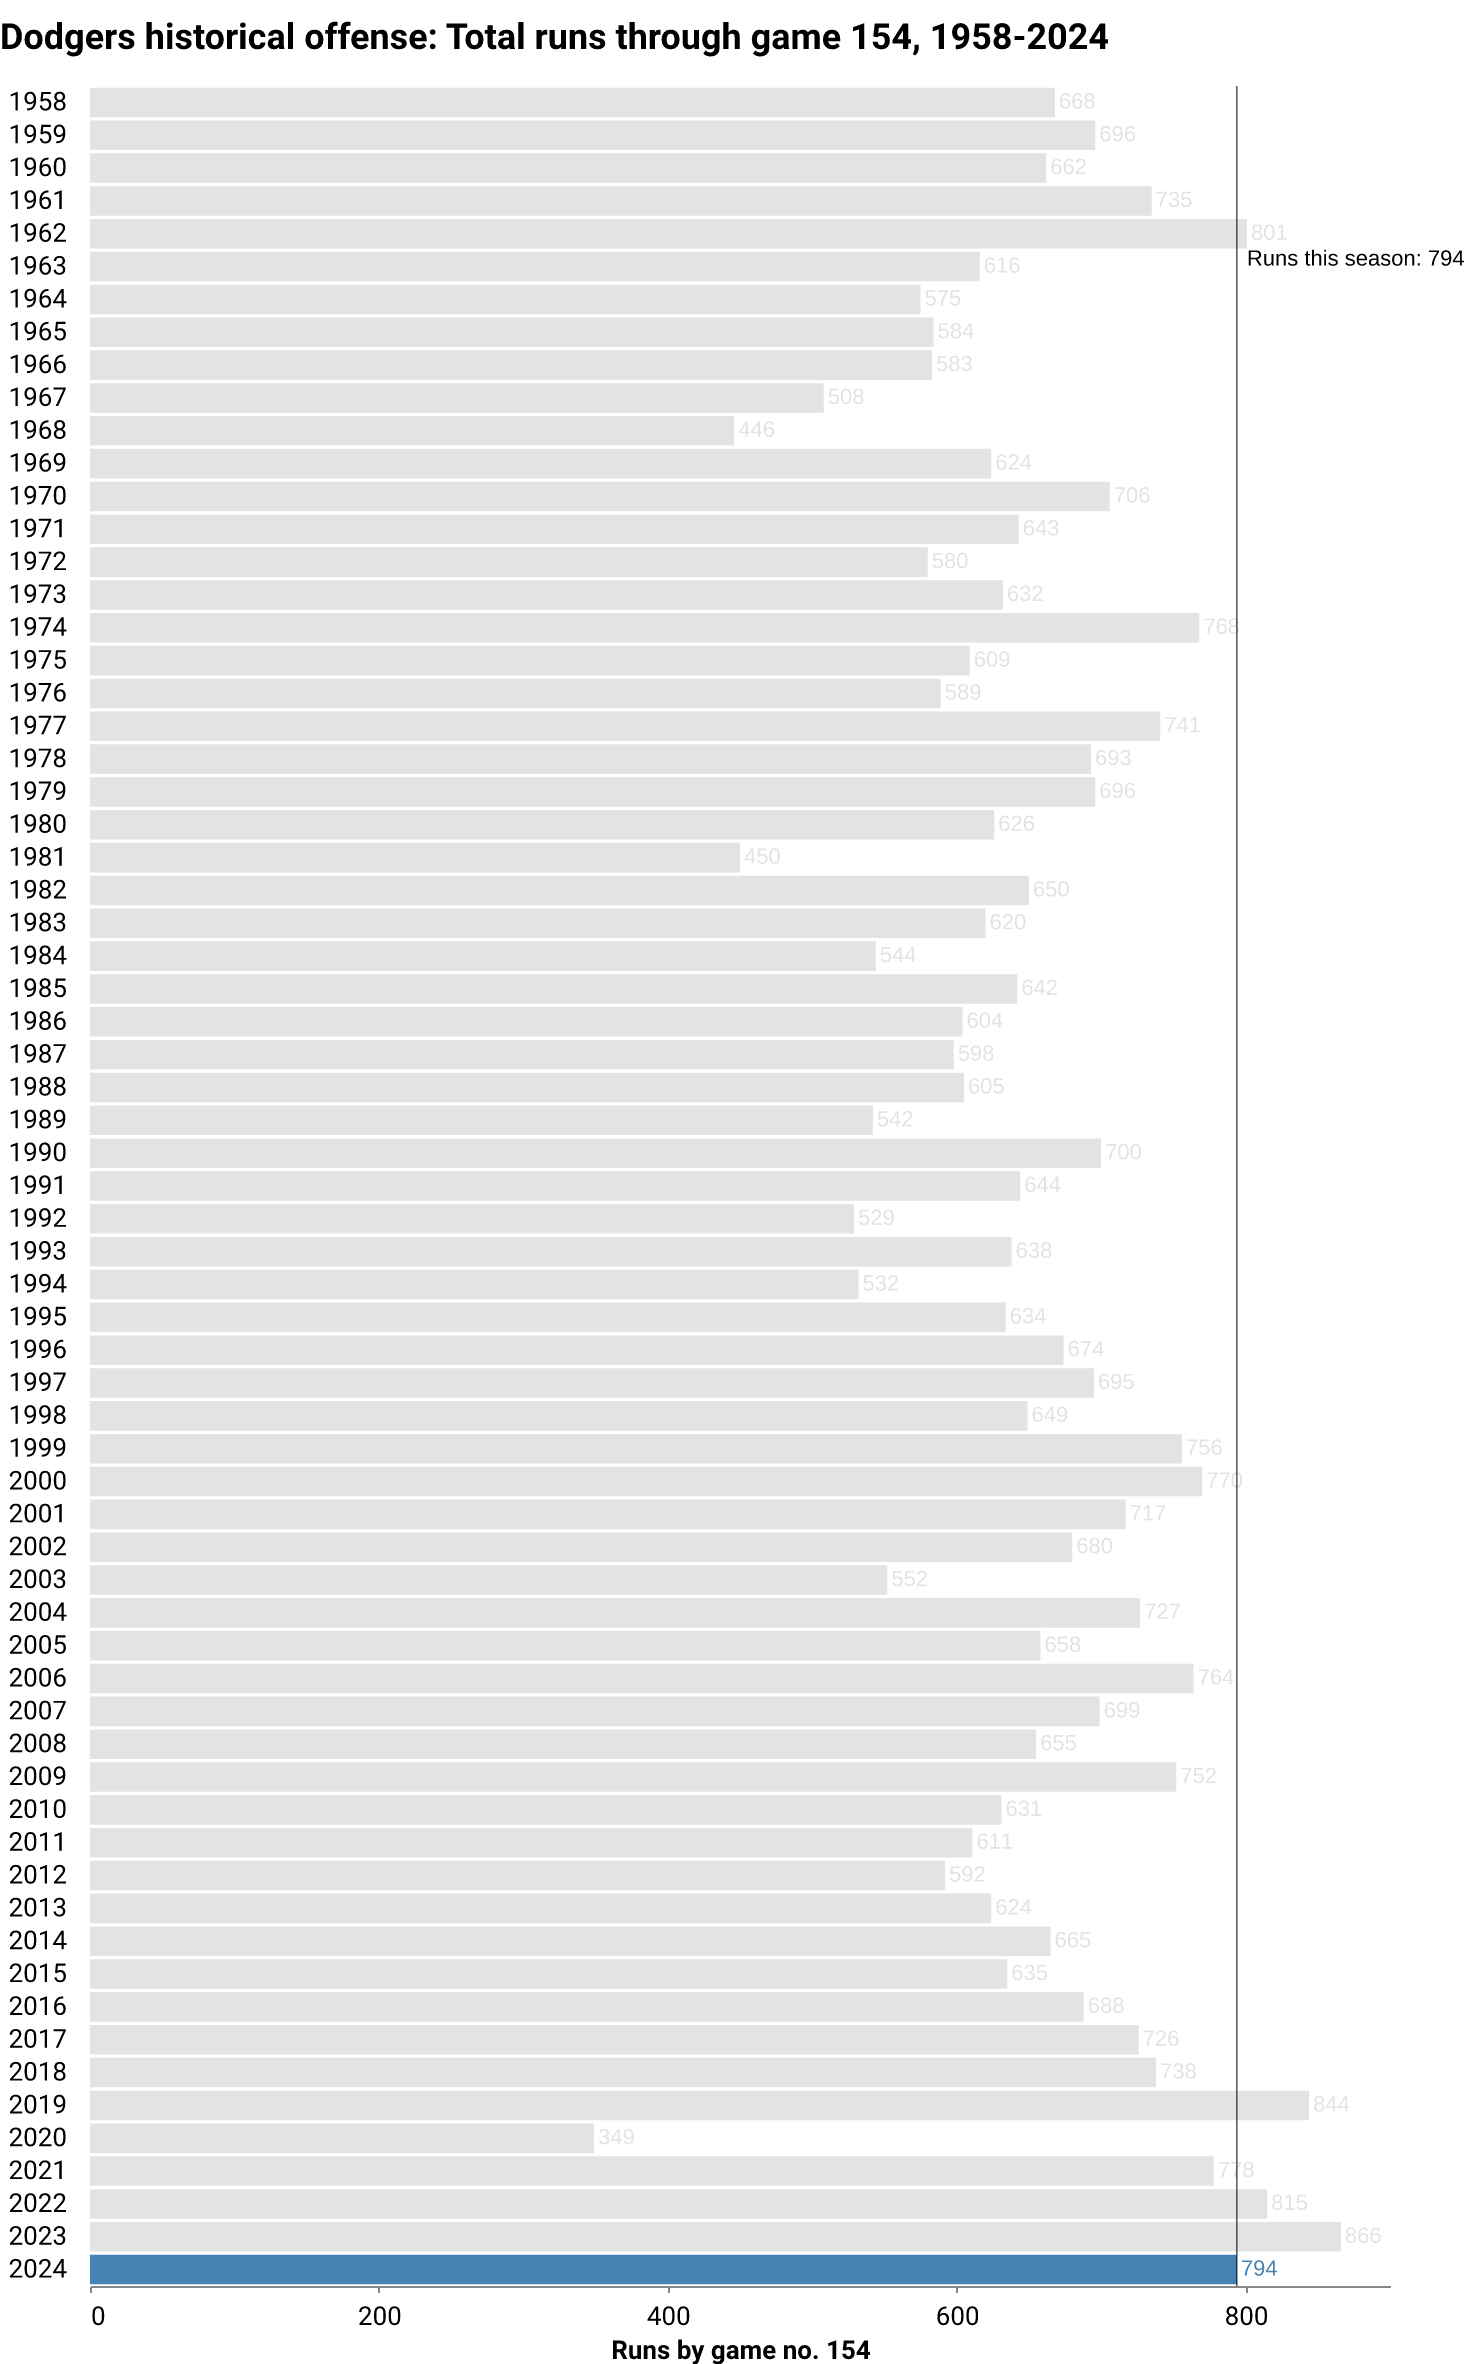
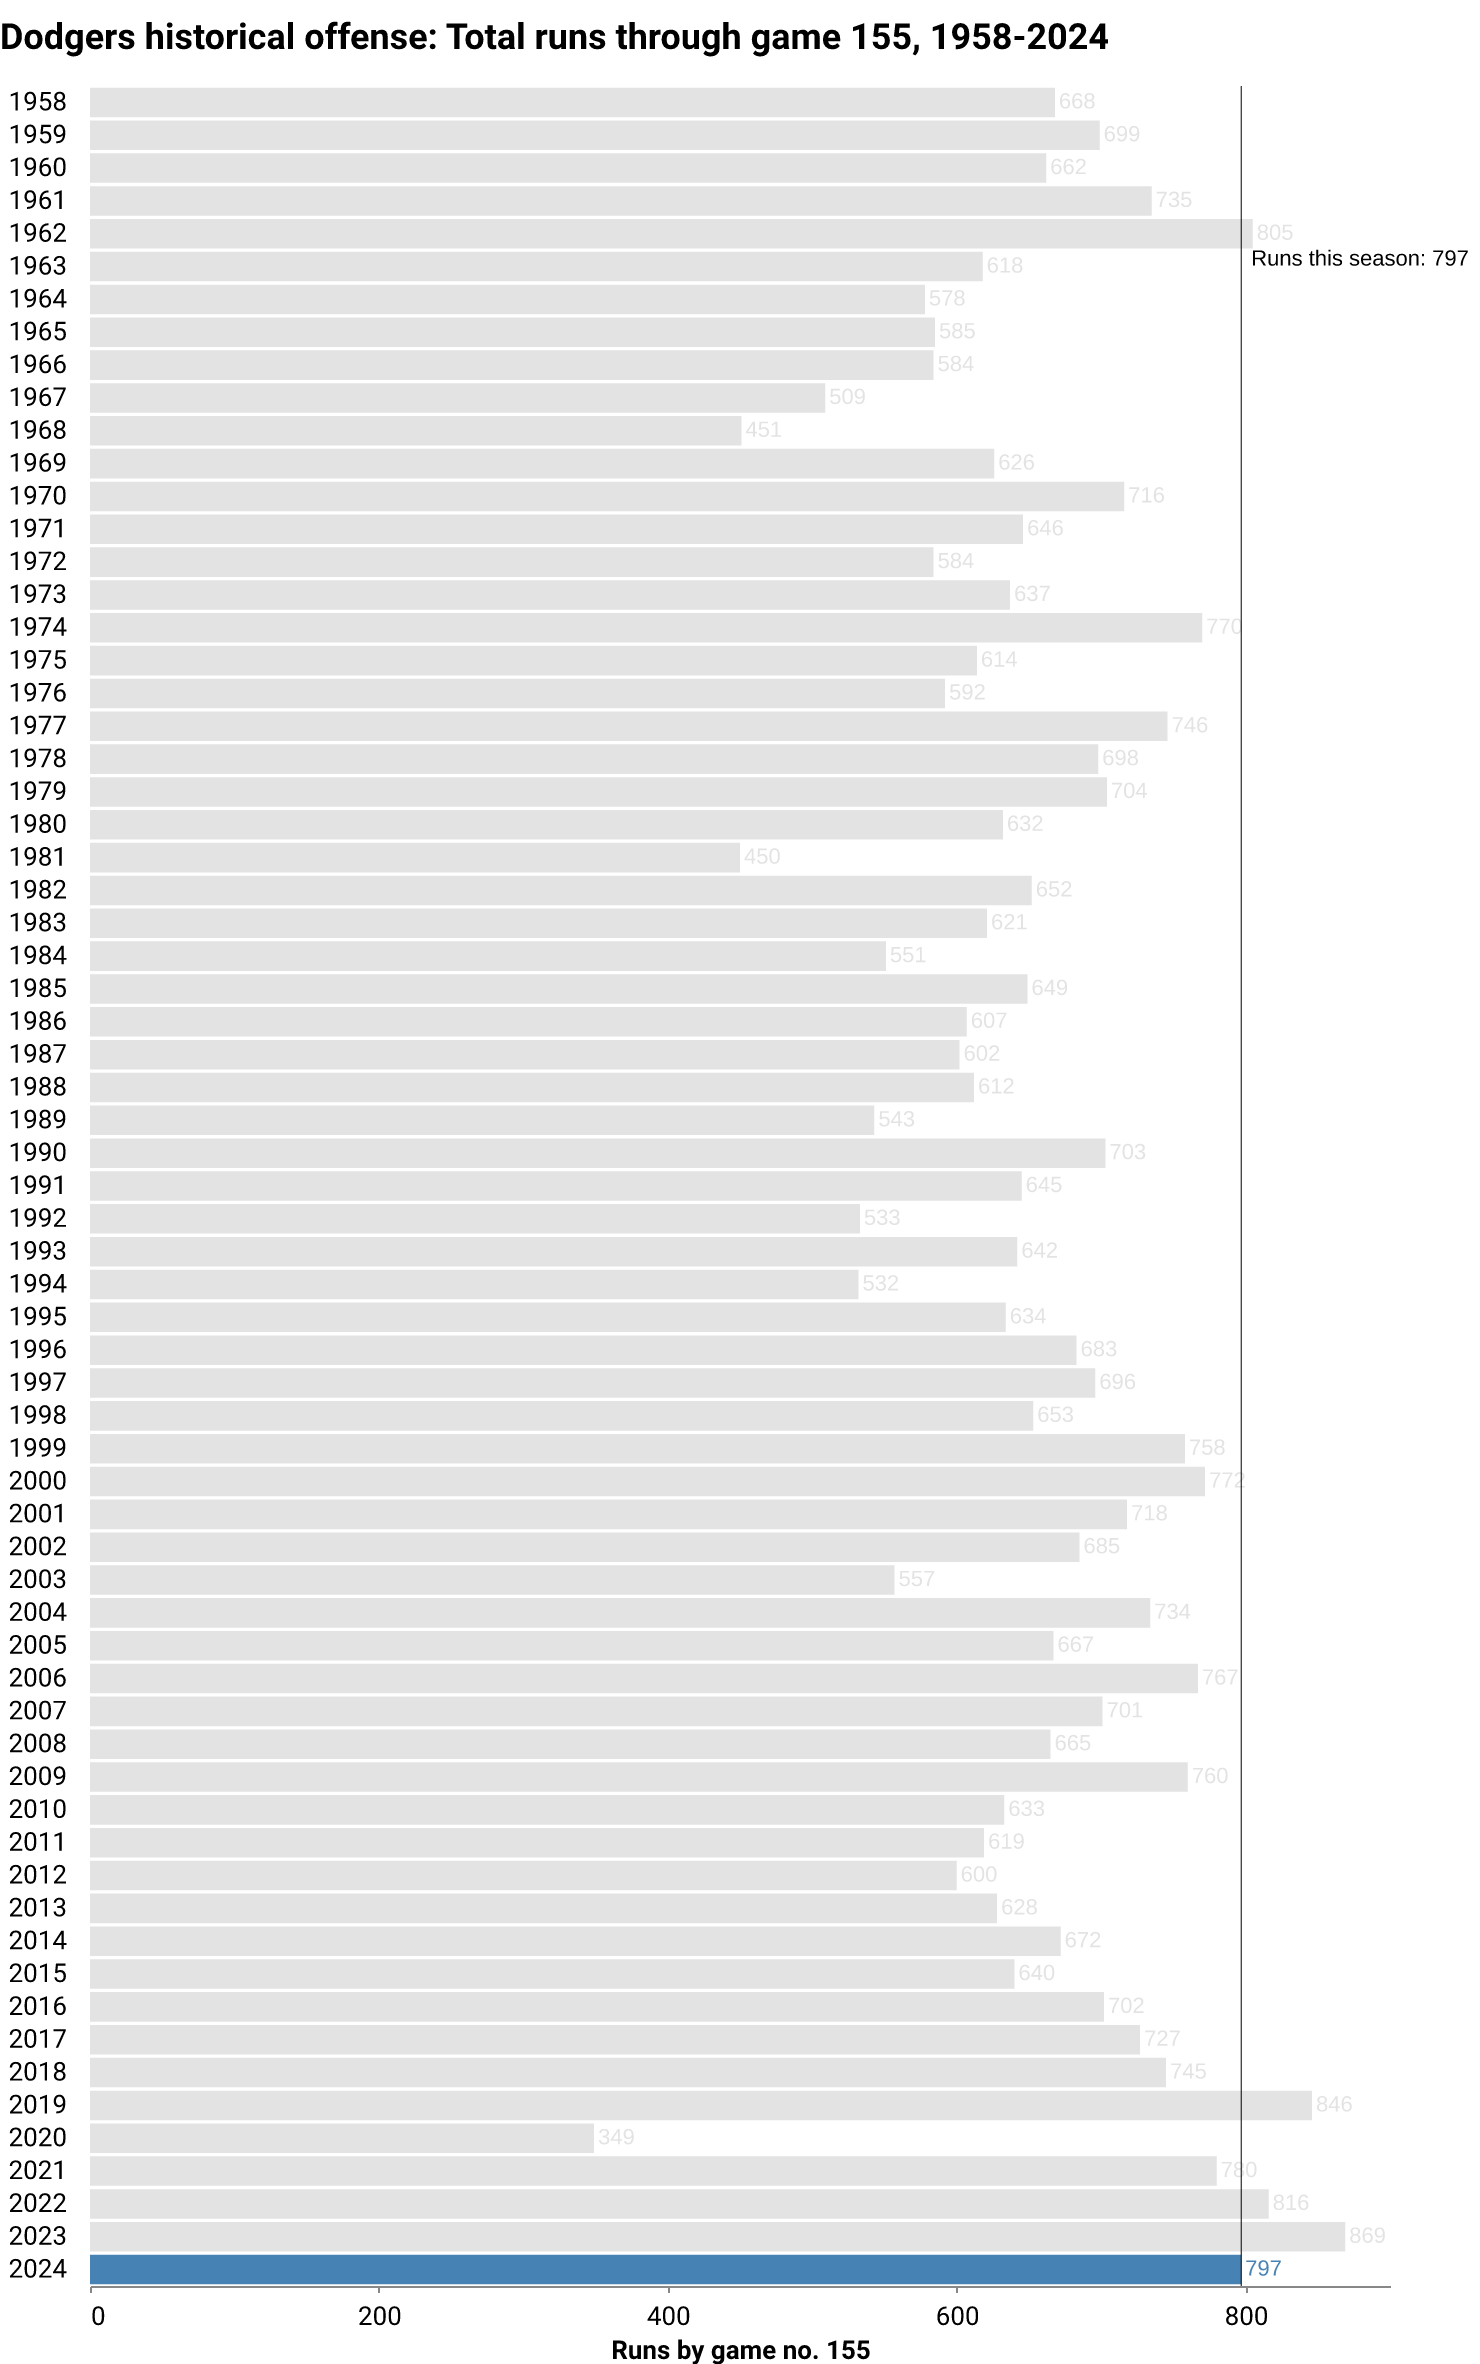
deploy: 06500cff35aeaca29bca53e55c2ca973a0f34bcf

diff --git a/index.html b/index.html
@@ -177,14 +177,14 @@
     
     
     
-        <i class="fa-solid fa-arrow-trend-up" style="color: #005a9c;"></i>
+        <i class="fa-solid fa-arrow-trend-down" style="color: #ef3e42;"></i>
     
 </div>
 <h1 class="headline">How are the Dodgers doing?</h1>
 <p class="subhead">
     
     
-    <span class="highlight">LOS ANGELES</span> <span class="updated">(September 21)</span> — After <span class="highlight">154</span> games this season, the Dodgers are in <span class="highlight">1st</span> place in the National League West division. The team has compiled a <span class="highlight">92-62</span> record, winning <span class="highlight">60%</span> of its games so far. The last game was a <span class="highlight">6-4</span> home <span class="highlight">win</span> against the Colorado Rockies in front of <span class="highlight">49,073</span> fans. They've won <span class="highlight">6 of the last 10</span>.
+    <span class="highlight">LOS ANGELES</span> <span class="updated">(September 22)</span> — After <span class="highlight">155</span> games this season, the Dodgers are in <span class="highlight">1st</span> place in the National League West division. The team has compiled a <span class="highlight">92-63</span> record, winning <span class="highlight">59%</span> of its games so far. The last game was a <span class="highlight">3-6</span> home <span class="highlight">loss</span> against the Colorado Rockies in front of <span class="highlight">52,267</span> fans. They've won <span class="highlight">6 of the last 10</span>.
 </p>
 </div>
 
@@ -209,7 +209,7 @@
             <p class="card-text">92</p>
           </div>
           <div class="card-footer text-muted">
-        This point last season: 95
+        This point last season: 96
           </div>
         </div>
       </div>
@@ -222,7 +222,7 @@
             Losses
           </div>
           <div class="card-body">
-            <p class="card-text">62</p>
+            <p class="card-text">63</p>
           </div>
           <div class="card-footer text-muted">
         This point last season: 59
@@ -238,10 +238,10 @@
             Record
           </div>
           <div class="card-body">
-            <p class="card-text">92-62</p>
+            <p class="card-text">92-63</p>
           </div>
           <div class="card-footer text-muted">
-        This point last season: 95-59
+        This point last season: 96-59
           </div>
         </div>
       </div>
@@ -254,7 +254,7 @@
             Win percentage
           </div>
           <div class="card-body">
-            <p class="card-text">60%</p>
+            <p class="card-text">59%</p>
           </div>
           <div class="card-footer text-muted">
         This point last season: 62%
@@ -270,7 +270,7 @@
             Games up/back
           </div>
           <div class="card-body">
-            <p class="card-text">4.0</p>
+            <p class="card-text">3.0</p>
           </div>
           <div class="card-footer text-muted">
         Division rank: 1
@@ -286,10 +286,10 @@
             Avg. home attendance
           </div>
           <div class="card-body">
-            <p class="card-text">48,462</p>
+            <p class="card-text">48,512</p>
           </div>
           <div class="card-footer text-muted">
-        Home games this season: 76
+        Home games this season: 77
           </div>
         </div>
       </div>
@@ -302,7 +302,7 @@
             Runs
           </div>
           <div class="card-body">
-            <p class="card-text">794</p>
+            <p class="card-text">797</p>
           </div>
           <div class="card-footer text-muted">
         League rank: 2
@@ -318,10 +318,10 @@
             Runs against
           </div>
           <div class="card-body">
-            <p class="card-text">659</p>
+            <p class="card-text">665</p>
           </div>
           <div class="card-footer text-muted">
-        This point last season: 669
+        This point last season: 671
           </div>
         </div>
       </div>
@@ -334,10 +334,10 @@
             Run differential
           </div>
           <div class="card-body">
-            <p class="card-text">135</p>
+            <p class="card-text">132</p>
           </div>
           <div class="card-footer text-muted">
-        This point last season: 197
+        This point last season: 198
           </div>
         </div>
       </div>
@@ -424,7 +424,7 @@
             Home runs
           </div>
           <div class="card-body">
-            <p class="card-text">220</p>
+            <p class="card-text">221</p>
           </div>
           <div class="card-footer text-muted">
         League rank: 1
@@ -456,7 +456,7 @@
             On-base percentage
           </div>
           <div class="card-body">
-            <p class="card-text">.331</p>
+            <p class="card-text">.332</p>
           </div>
           <div class="card-footer text-muted">
         Last decade average: .332
@@ -472,7 +472,7 @@
             Stolen bases
           </div>
           <div class="card-body">
-            <p class="card-text">123</p>
+            <p class="card-text">125</p>
           </div>
           <div class="card-footer text-muted">
         League rank: 6
@@ -488,7 +488,7 @@
             Stolen bases/game
           </div>
           <div class="card-body">
-            <p class="card-text">0.8</p>
+            <p class="card-text">0.81</p>
           </div>
           <div class="card-footer text-muted">
         Rate all last season: 0.65
@@ -605,7 +605,7 @@
             Strikeouts
           </div>
           <div class="card-body">
-            <p class="card-text">1306</p>
+            <p class="card-text">1320</p>
           </div>
           <div class="card-footer text-muted">
         League rank: 7
@@ -621,7 +621,7 @@
             Walks
           </div>
           <div class="card-body">
-            <p class="card-text">476</p>
+            <p class="card-text">478</p>
           </div>
           <div class="card-footer text-muted">
         League rank: 10
@@ -637,7 +637,7 @@
             ERA
           </div>
           <div class="card-body">
-            <p class="card-text">3.93</p>
+            <p class="card-text">3.94</p>
           </div>
           <div class="card-footer text-muted">
         League rank: 6
@@ -716,7 +716,7 @@
     </div>
 </div>
 
-  <p class="dated">Notes: Last updated September 21, 2024, 3:03 PM PT. More <a href="https://github.com/stiles/dodgers/blob/main/README.md">about the data</a>.</p>
+  <p class="dated">Notes: Last updated September 22, 2024, 12:03 AM PT. More <a href="https://github.com/stiles/dodgers/blob/main/README.md">about the data</a>.</p>
   
 </div>
 
